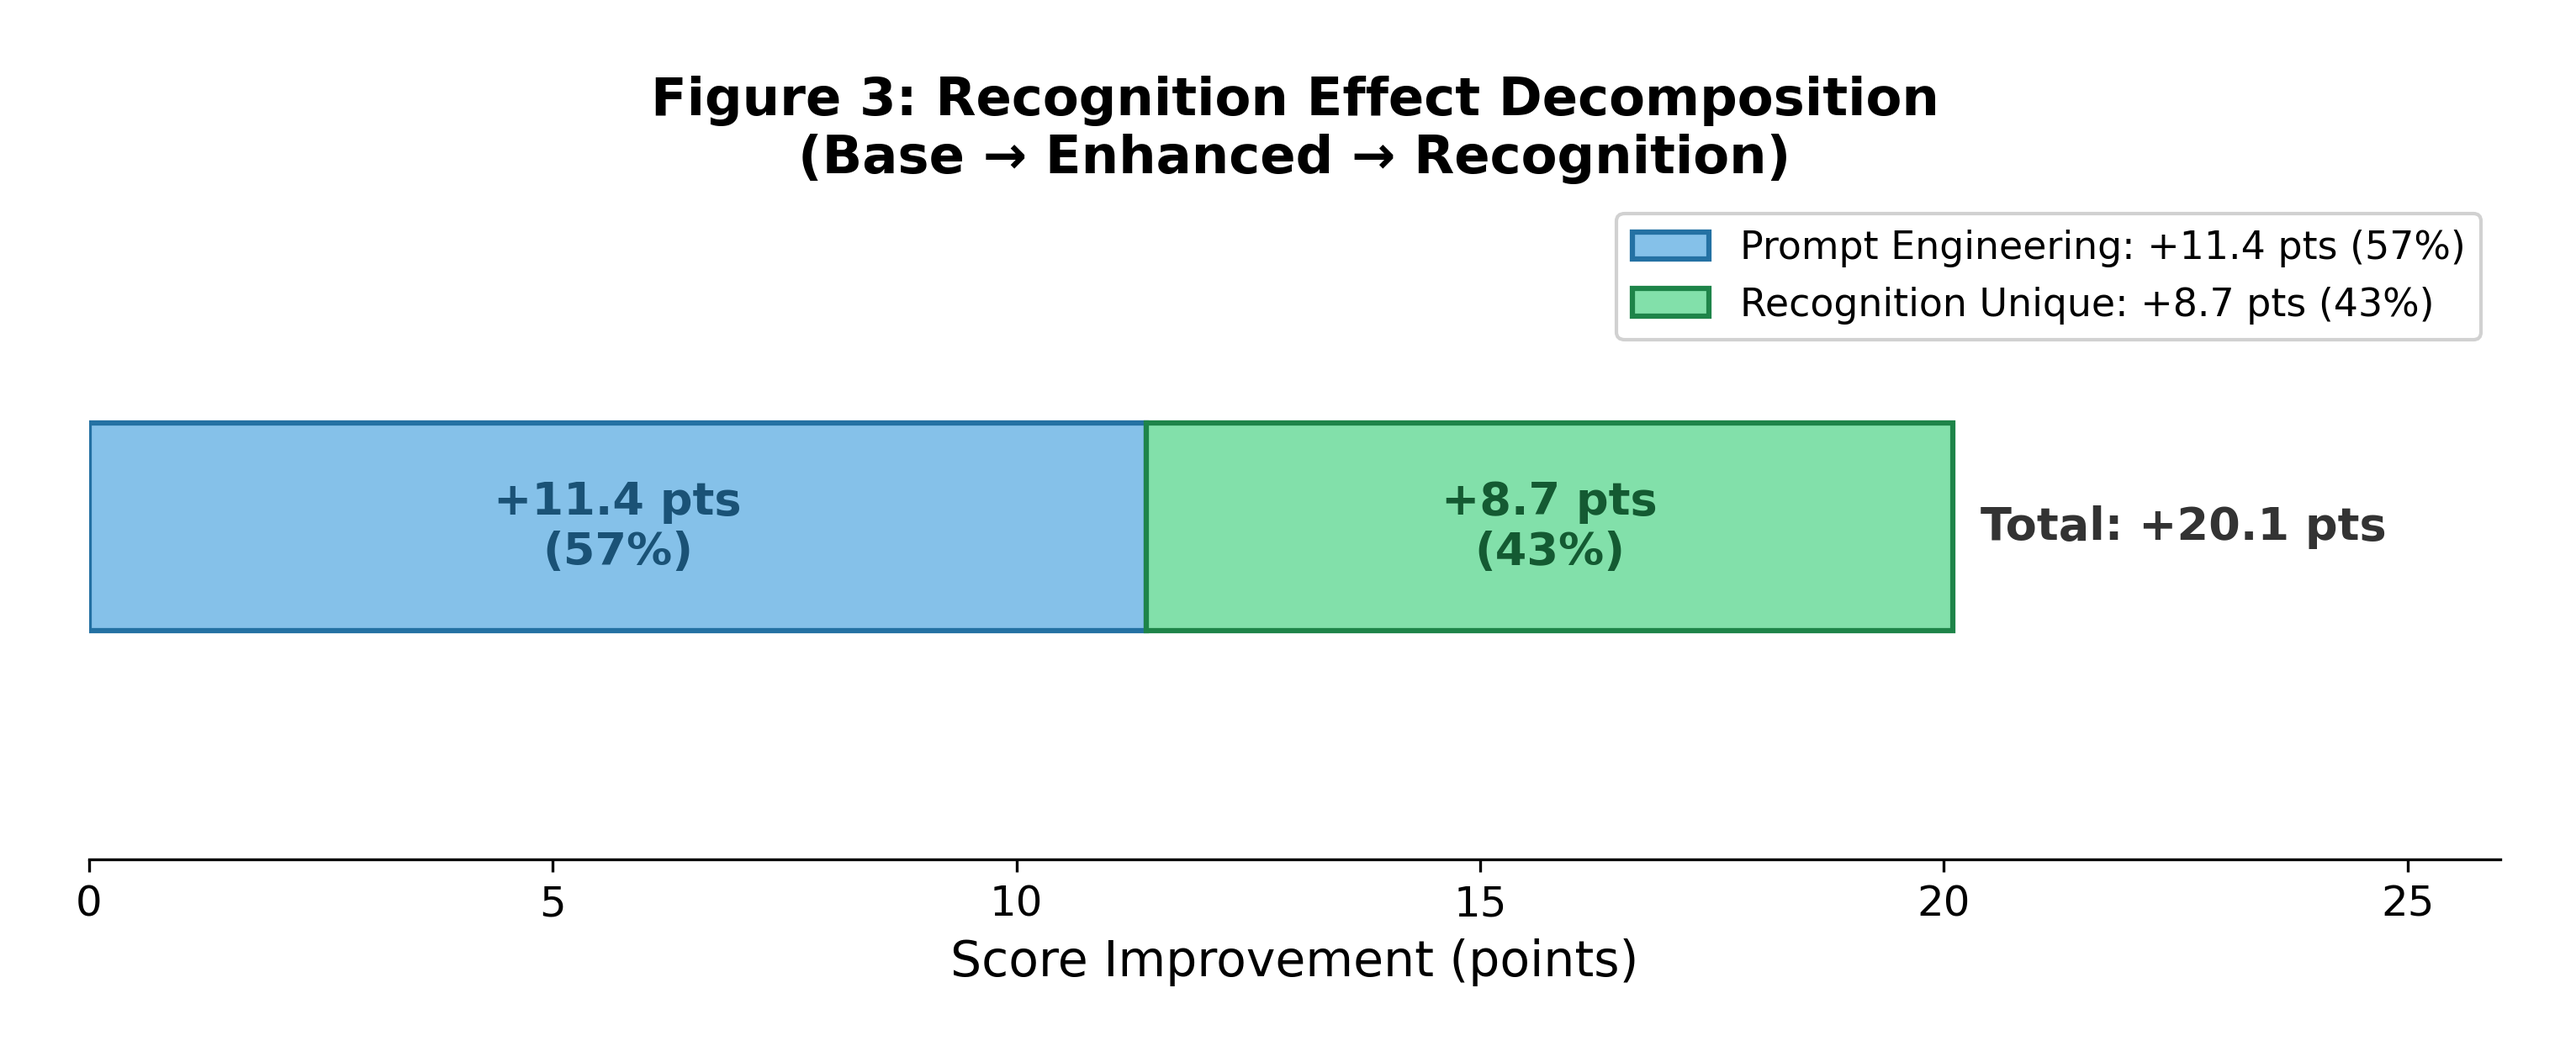
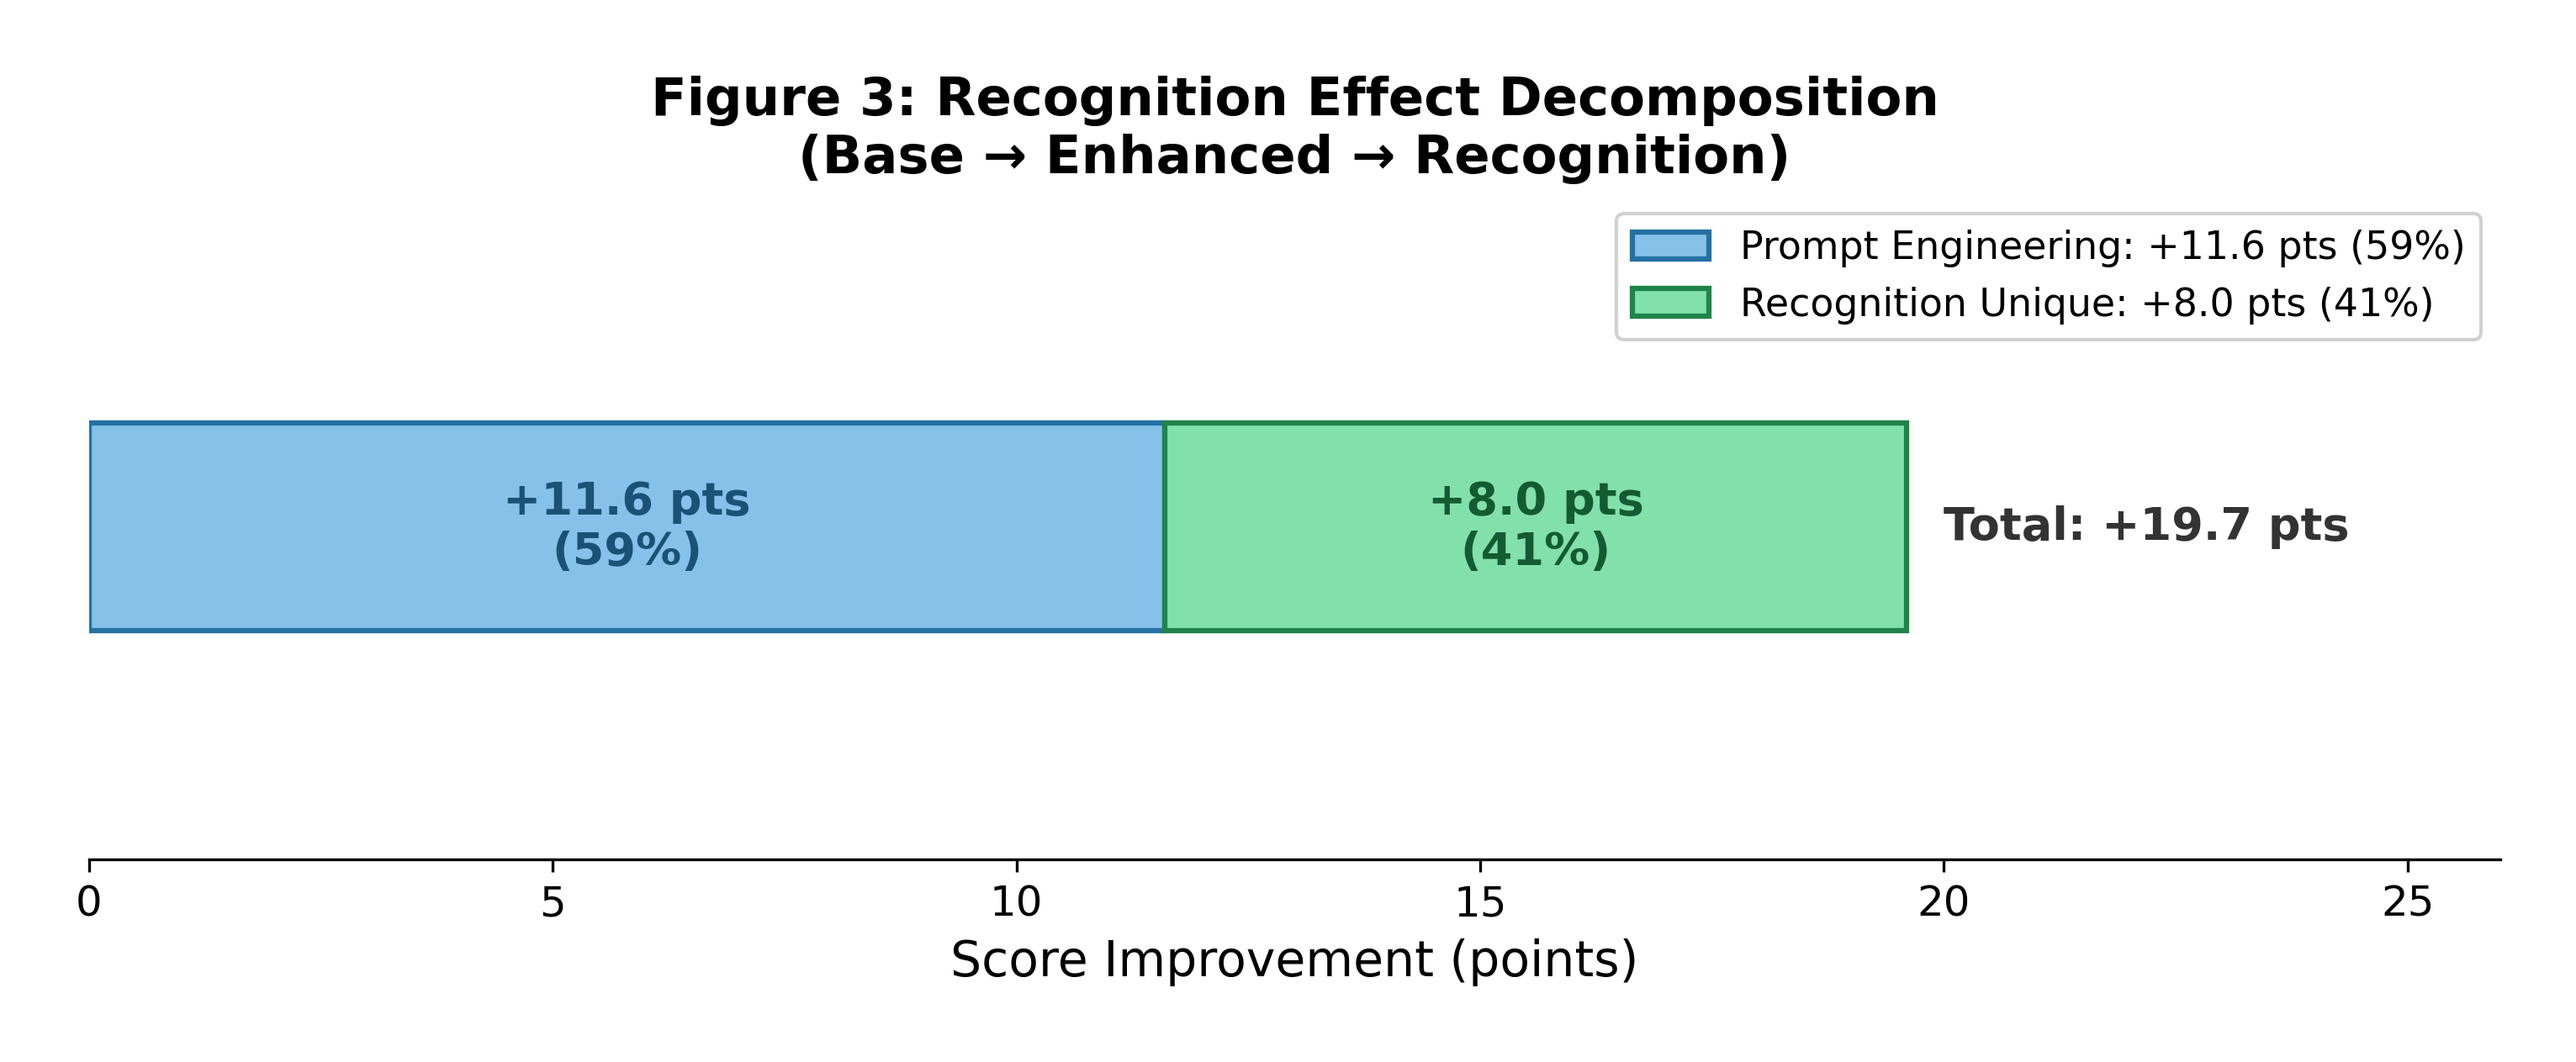
Fix figure script judge filter, update manifest and notebook to v2.3.10
- Replace stale claude-code% judge filter with claude-opus% in figure script
  (default parameter + figures 7, 8 now read from manifest)
- Update Figure 3 hardcoded decomposition values to match paper (19.7/11.6/8.0)
- Add naive baseline runs (deee5fd6, 27d7b4e3) to paper manifest
- Bump manifest totals: 31 evaluations, N=3,292 scored, 3,307 attempts
- Update notebook from v2.3.5 to v2.3.10 (31 key evals, N=3,292)
- Regenerate figures 3-5 with correct data

diff --git a/scripts/generate-paper-figures.py b/scripts/generate-paper-figures.py
@@ -47,7 +47,7 @@ def get_db():
         _db.row_factory = sqlite3.Row
     return _db
 
-def query_cell_means(run_ids, judge_filter='claude-code%'):
+def query_cell_means(run_ids, judge_filter='claude-opus%'):
     """Query mean overall_score per profile (cell) for given runs."""
     db = get_db()
     if not db:
@@ -301,9 +301,9 @@ def figure2():
 def figure3():
     fig, ax = plt.subplots(figsize=(10, 4))
 
-    total = 20.1
-    prompt_eng = 11.4
-    recog_unique = 8.7
+    total = 19.7
+    prompt_eng = 11.6
+    recog_unique = 8.0
     prompt_pct = prompt_eng / total * 100  # 57%
     recog_pct = recog_unique / total * 100  # 43%
 
@@ -666,7 +666,7 @@ def figure7():
     data_driven = False
 
     if fig7_config and get_db():
-        cell_means = query_cell_means(fig7_config['runs'], 'claude-code%')
+        cell_means = query_cell_means(fig7_config['runs'], fig7_config['judge_filter'])
         if cell_means:
             # Cells 28-33: base/recog × suspicious/adversary/advocate
             persona_cells = {
@@ -783,7 +783,7 @@ def figure8():
 
     if fig8_config and get_db():
         # Scripted
-        s_means = query_cell_means([fig8_config['runs']['scripted']], 'claude-code%')
+        s_means = query_cell_means([fig8_config['runs']['scripted']], fig8_config['judge_filter'])
         if s_means:
             s_labels = []
             s_vals = []
@@ -799,7 +799,7 @@ def figure8():
 
         # Dynamic
         d_run_ids = [fig8_config['runs']['dynamic_60_63'], fig8_config['runs']['dynamic_64_65']]
-        d_means = query_cell_means(d_run_ids, 'claude-code%')
+        d_means = query_cell_means(d_run_ids, fig8_config['judge_filter'])
         if d_means:
             d_labels = []
             d_vals = []
